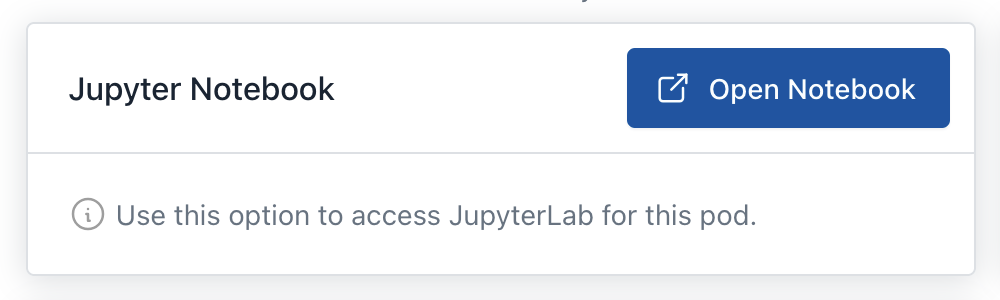
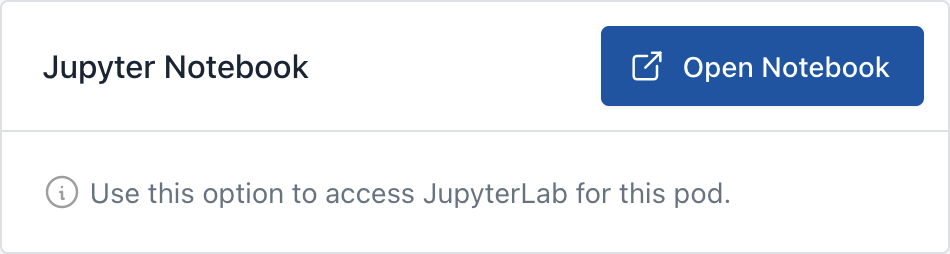
github faq

diff --git a/_static/main.css b/_static/main.css
@@ -102,5 +102,7 @@ h2 code.literal {
 
 article img {
     display: block;
-    margin: 0 auto;
+    margin: 12px auto;
+    border: 1px solid black;
+    box-shadow: 0px 0px 5px 3px #888;
 }

diff --git a/faq.md b/faq.md
@@ -30,6 +30,40 @@ You can connect to your pods with [Visual Studio Code](https://code.visualstudio
 
 ----------------------------------------------------------------------------------------------
 
+## How do I push/pull to GitHub from a pod?
+
+You can push and pull to remote repositories from your pods once you perform the following setup:
+
+**Step 1: Add your pod SSH keys to your GitHub account.**
+
+First, copy your automatically-generated (public) SSH key, which can be found on the home page under "Pod SSH Key":
+
+<img srcset="_static/images/ssh-key.png 3x" />
+
+Then paste this into a new [GitHub SSH Key](https://github.com/settings/keys):
+
+<img srcset="_static/images/github-ssh-key-0.png 4x" />
+
+<img srcset="_static/images/github-ssh-key-1.png 4x" />
+
+
+**Step 2: Configure your local git settings.**
+
+Launch a pod that runs the following script (filling in your email address and name accordingly).
+
+```bash
+echo 'git config --global user.email "my-email-address@somewhere.com"' >> ~/nfs/launcher-start.sh
+echo 'git config --global user.name "My Name"' >> ~/nfs/launcher-start.sh
+```
+
+These options configure `git` to set your name and email address on commits you make.
+
+**All set!**
+
+New pods that you launch will now be able to push and pull from your GitHub repositories.
+
+----------------------------------------------------------------------------------------------
+
 ## How can I copy files to/from my pod?
 
 You'll often need to copy files (code, results, figures, etc.) between your local machine and the IDA cluster.
